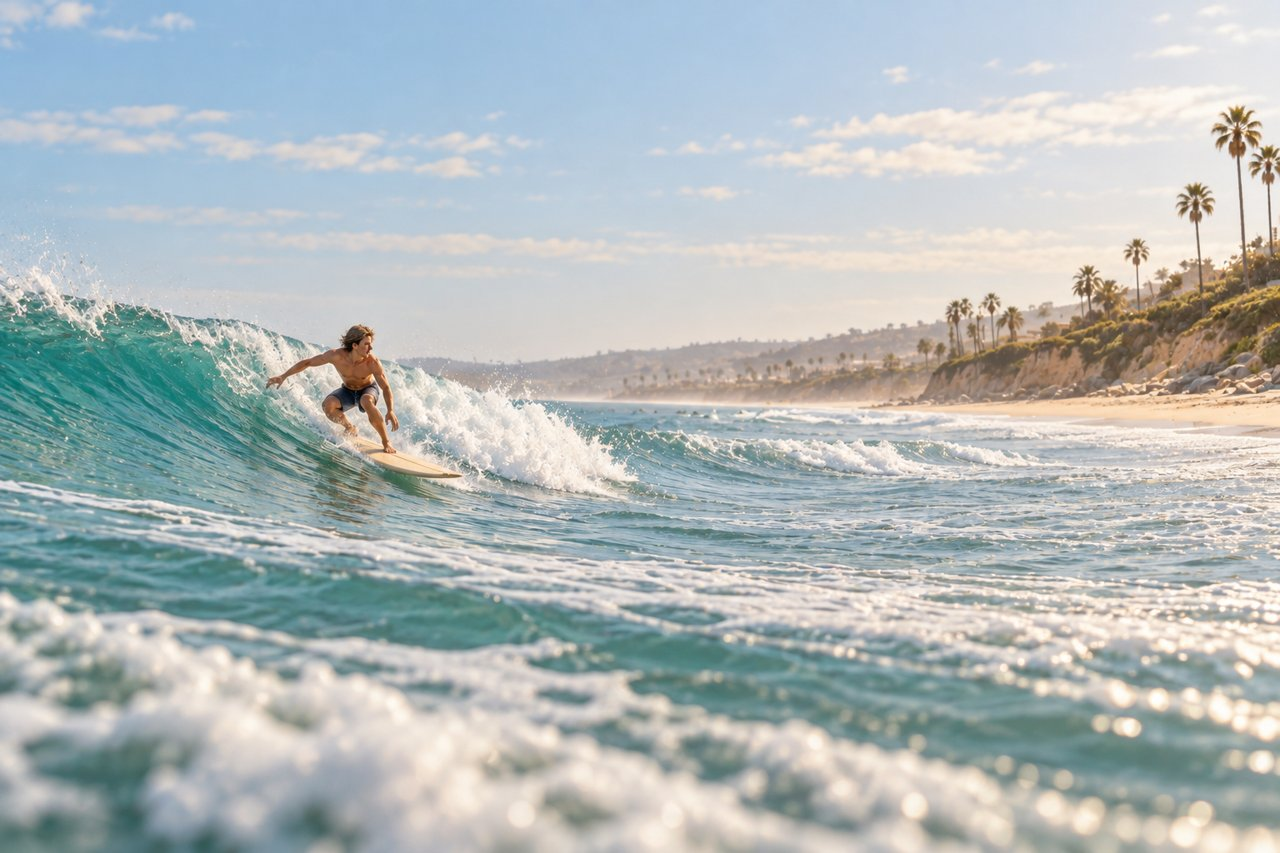
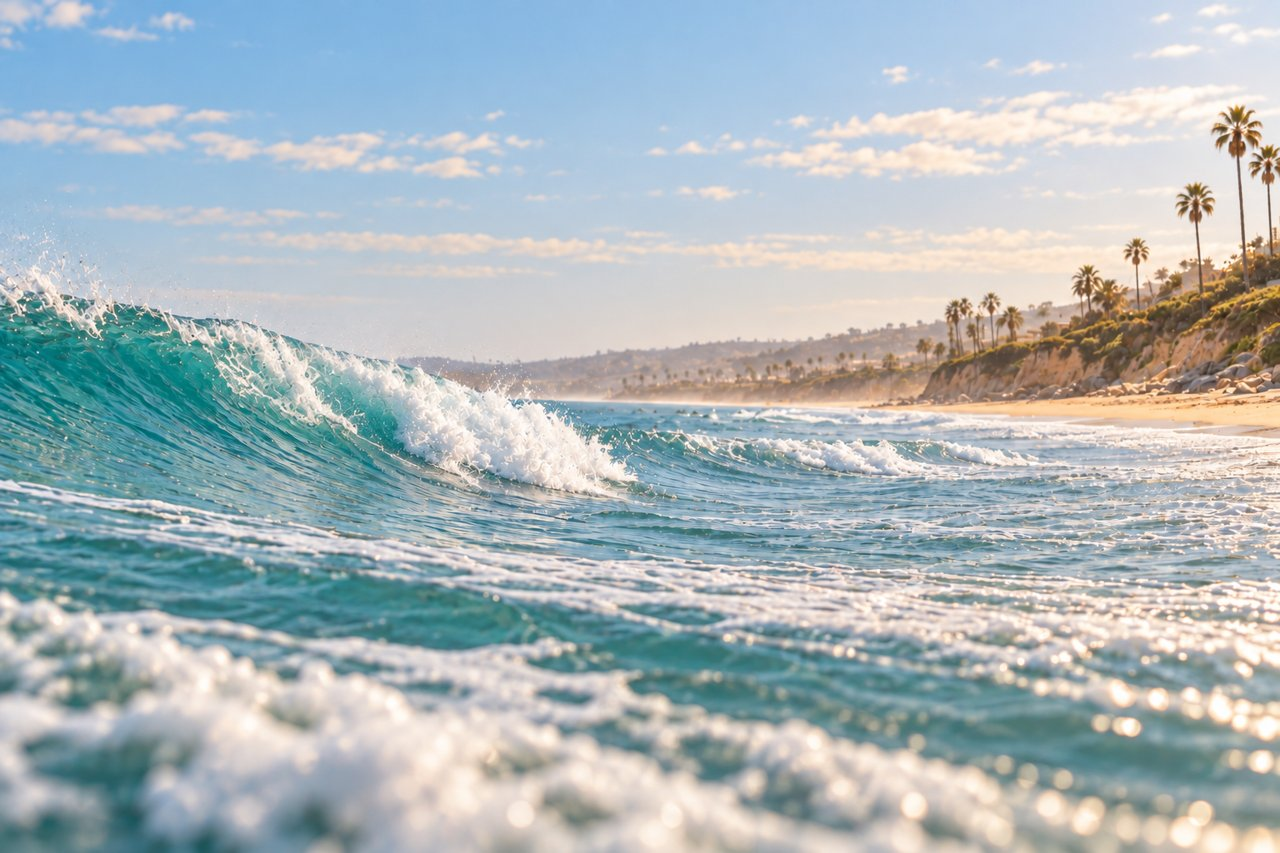
Make pancakes fluffier and remove surfer from ocean image

diff --git a/index.html b/index.html
@@ -5,5 +5,5 @@
 <section class="menu" aria-label="Breakfast menu"><section class="category"><h2>Entrées</h2><article><h3>Avocado Toast <b>$9.25</b></h3><p>Creamy fresh avocado spread over warm, crunchy toast.</p></article><article><h3>French Toast <b>$7.99</b></h3><p>Freshly griddled French toast made golden and soft.</p></article><article><h3>Buttermilk Pancakes <b>$10.00</b></h3><p>Freshly flipped pancakes made fluffy, warm, and buttery.</p></article></section>
 <section class="category"><h2>Sides</h2><article><h3>Bacon &amp; Eggs <b>$4.50</b></h3><p>Crispy bacon paired perfectly with freshly cooked eggs.</p></article><article><h3>Mango Açaí Bowl <b>$8.50</b></h3><p>Fresh açaí blended with juicy mango for a tropical treat.</p></article><article><h3>Classic Açaí Bowl <b>$12.00</b></h3><p>Freshly blended açaí packed with rich, velvety berry flavor.</p></article></section>
 <section class="category"><h2>Drinks</h2><article><h3>Passionfruit Peach Sunrise Smoothie <b>$4.00</b></h3><p>Peach, mango, and passionfruit blended fresh and silky.</p></article><article><h3>Orange Juice <b>$2.50</b></h3><p>Freshly poured orange juice bursting with sweet citrus flavor.</p></article><article><h3>Caramel Vanilla Latte <b>$6.99</b></h3><p>Fresh coffee blended with smooth vanilla and dreamy caramel.</p></article></section></section>
-</div><section class="beach-section" aria-labelledby="beach-title"><div class="section-copy"><p class="eyebrow">FIND YOUR SUNNY SIDE</p><h2 id="beach-title">Breakfast by the ocean.<br><em>Newport Beach, California.</em></h2><p>Salty air, rolling waves, and a fresh breakfast. Sunny Side Up brings American and Brazilian breakfast to Newport Beach.</p></div><figure class="surf-photo"><img src="assets/sunny-surf.jpg" width="1280" height="853" loading="lazy" alt="A colorful illustration of a surfer riding a turquoise wave beside a sunny beach"></figure></section><section class="food-section" aria-labelledby="food-title"><div class="section-copy"><p class="eyebrow">A TABLE FULL OF GOOD MORNINGS</p><h2 id="food-title">A little sweet. A little savory.<br><em>A whole lot of sunshine.</em></h2><p>Golden French toast, fluffy pancakes, creamy avocado toast, and colorful açaí bowls. Pick your favorite way to rise, shine, and dine.</p></div><figure><img src="assets/cute-breakfast.jpg" width="1536" height="1024" loading="lazy" alt="An illustrated breakfast spread of golden pancakes, French toast, avocado toast, bacon and eggs, and colorful açaí bowls on closely arranged white plates"></figure></section><footer><span>FRESH BREAKFAST</span><span aria-hidden="true"><svg aria-hidden="true" viewBox="0 0 40 32" width="28" height="24" style="display:block"><path d="M8 7C12 1 20 3 24 5C31 3 38 10 36 17C39 24 30 30 23 28C15 32 4 28 4 21C0 16 3 10 8 7Z" fill="#fffdf5" stroke="#b99445" stroke-width="1.2"/><circle cx="20" cy="16" r="7" fill="#f4b928"/><circle cx="18" cy="14" r="2" fill="#ffe58c"/></svg></span><strong>Come hungry. Leave sunny.</strong><span aria-hidden="true"><svg aria-hidden="true" viewBox="0 0 40 32" width="28" height="24" style="display:block"><path d="M8 7C12 1 20 3 24 5C31 3 38 10 36 17C39 24 30 30 23 28C15 32 4 28 4 21C0 16 3 10 8 7Z" fill="#fffdf5" stroke="#b99445" stroke-width="1.2"/><circle cx="20" cy="16" r="7" fill="#f4b928"/><circle cx="18" cy="14" r="2" fill="#ffe58c"/></svg></span><span>BEACH-DAY ENERGY</span></footer>
+</div><section class="beach-section" aria-labelledby="beach-title"><div class="section-copy"><p class="eyebrow">FIND YOUR SUNNY SIDE</p><h2 id="beach-title">Breakfast by the ocean.<br><em>Newport Beach, California.</em></h2><p>Salty air, rolling waves, and a fresh breakfast. Sunny Side Up brings American and Brazilian breakfast to Newport Beach.</p></div><figure class="surf-photo"><img src="assets/sunny-surf.jpg" width="1280" height="853" loading="lazy" alt="Soft turquoise waves rolling toward an empty sunny beach"></figure></section><section class="food-section" aria-labelledby="food-title"><div class="section-copy"><p class="eyebrow">A TABLE FULL OF GOOD MORNINGS</p><h2 id="food-title">A little sweet. A little savory.<br><em>A whole lot of sunshine.</em></h2><p>Golden French toast, fluffy pancakes, creamy avocado toast, and colorful açaí bowls. Pick your favorite way to rise, shine, and dine.</p></div><figure><img src="assets/cute-breakfast.jpg" width="1536" height="1024" loading="lazy" alt="An illustrated breakfast spread of golden pancakes, French toast, avocado toast, bacon and eggs, and colorful açaí bowls on closely arranged white plates"></figure></section><footer><span>FRESH BREAKFAST</span><span aria-hidden="true"><svg aria-hidden="true" viewBox="0 0 40 32" width="28" height="24" style="display:block"><path d="M8 7C12 1 20 3 24 5C31 3 38 10 36 17C39 24 30 30 23 28C15 32 4 28 4 21C0 16 3 10 8 7Z" fill="#fffdf5" stroke="#b99445" stroke-width="1.2"/><circle cx="20" cy="16" r="7" fill="#f4b928"/><circle cx="18" cy="14" r="2" fill="#ffe58c"/></svg></span><strong>Come hungry. Leave sunny.</strong><span aria-hidden="true"><svg aria-hidden="true" viewBox="0 0 40 32" width="28" height="24" style="display:block"><path d="M8 7C12 1 20 3 24 5C31 3 38 10 36 17C39 24 30 30 23 28C15 32 4 28 4 21C0 16 3 10 8 7Z" fill="#fffdf5" stroke="#b99445" stroke-width="1.2"/><circle cx="20" cy="16" r="7" fill="#f4b928"/><circle cx="18" cy="14" r="2" fill="#ffe58c"/></svg></span><span>BEACH-DAY ENERGY</span></footer>
 </main><script src="app.js"></script></body></html>
